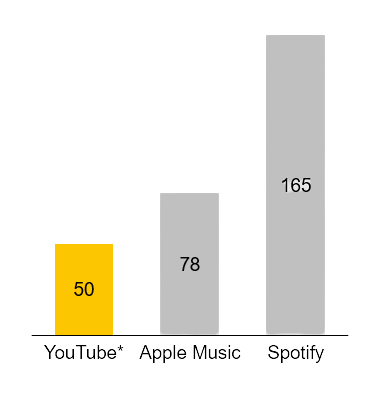
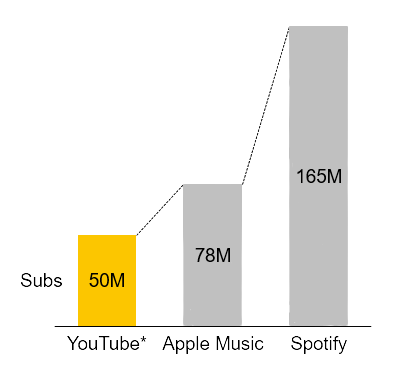
quick edits (YT)

Changed region(s): [[0.0312, 0.0584, 0.9062, 0.9337], [0.625, 0.3501, 0.6562, 0.4377]]

diff --git a/_posts/2022-06-13-ytmusic.md b/_posts/2022-06-13-ytmusic.md
@@ -11,9 +11,10 @@ description: Surprised more people don't elect YT Music.
 
 I've been on <a href="https://music.youtube.com/" target="_blank">YouTube Music</a> since its Google Play Music days (2016) and it's been pretty good, but I can't imagine choosing Spotify over YouTube Music which apparently people do 3:1[^1]:
 
-[^1]: [YouTube reports having 50 million Premium and Music subscribers](https://www.theverge.com/2021/9/2/22654318/youtube-50-million-premium-music-subscribers-streaming-services)
+[^1]: *<a href="https://www.theverge.com/2021/9/2/22654318/youtube-50-million-premium-music-subscribers-streaming-services" target="_blank">YouTube reports having 50 million Premium and Music subscribers</a>*
 
 ![music streaming service subs](/assets/images/music.stream.subs.png)
+<br><span class="muted small">* Google doesn't break down this number, so it's not clear how many YouTube Music subscribers there are (vs. Premium vs. free trial).</span>
 
 So I was thinking about the comparison, and if I were to score them I think it'd go like this:
 
@@ -29,11 +30,11 @@ So I was thinking about the comparison, and if I were to score them I think it'd
 
 [^3]: It is a little surprising that this isn't a differentiator for Google, since they acquired [Songza](https://en.wikipedia.org/wiki/Songza), a phenomenal streaming and recommendation platform, back in 2014, and bolted onto Google Play Music.
 
-- **Podcasting**. <mark4>Spotify 🥇</mark4>. I appreciate Spotify's big play with podcasting from a business model/monetization perspective, but as a user I don't need podcasts and music integrated, and am too cheap to pursue premium podcast *content*; I just do the premium podcast *<a href="https://www.pocketcasts.com/plus/" target="_blank">player</a>*.
-
 - **UI/controls/aesthetics**. <mark4>Spotify 🥇</mark4>. Mostly relying on the industry point of view, but it seems Spotify wins here, too. YT Music isn't terrible, and has certainly improved over time, but is on the clunkier side.
 
 - **Ecosystem** (i.e. accepted more places). <mark4>Spotify 🥇</mark4>. More and more in our connected/IoT world ecosystem matters, and so I think Spotify has a slight edge in terms of the number of third party services and devices you can connect to (e.g. Sonos, various car audio systems, Waze, Alexa).
+
+- **Podcasting**. <mark4>Spotify 🥇</mark4>. I appreciate Spotify's big play with podcasting from a business model/monetization perspective, but as a user I don't need podcasts and music integrated, and am too cheap to pursue premium podcast *content*; I just do the premium podcast *<a href="https://www.pocketcasts.com/plus/" target="_blank">player</a>*.
 
 - **Social/Sharing**. <mark4>Spotify 🥇</mark4>. This clearly goes to Spotify, but it's also not terribly important to me. (Though maybe I don't know what I'm missing.)
 
@@ -43,6 +44,6 @@ So I was thinking about the comparison, and if I were to score them I think it'd
 
 - **Ad-free YouTube**. <mark3>YT Music 🥇</mark3>. Ad-free, offline (i.e. downloads), and background play. I know: you kind of wince at having to pay YouTube to not be subjected to ad bombardment. YouTube is that school bully who exacts a toll from kids' packed lunches should they wish to avoid a beatdown. But hey, that's capitalism and willingness to pay. And when I think about the quantity of product reviews, educational videos, home improvement tutorials, and wild animal videos I consume, there's a significant time savings (ergo value).
 
-I'm not totally sure I need to have a music streaming service—I could conceivably be satisfied rotating among my top 50 albums of all time (future post to enumerate)—but while I do it'd be hard to give up ad-free YouTube. At the end of the day this just indicates that I may enjoy music, but I'm no audiophile.
+I'm not totally sure I need to have a music streaming service—I could conceivably be satisfied rotating among my top 50 albums of all time (future post to enumerate)—but while I do it'd be hard to give up ad-free YouTube. At the end of the day this just indicates that I may enjoy music, but am no audiophile.
 
 ![initials](/assets/images/initials.pmb.71.56.png)
